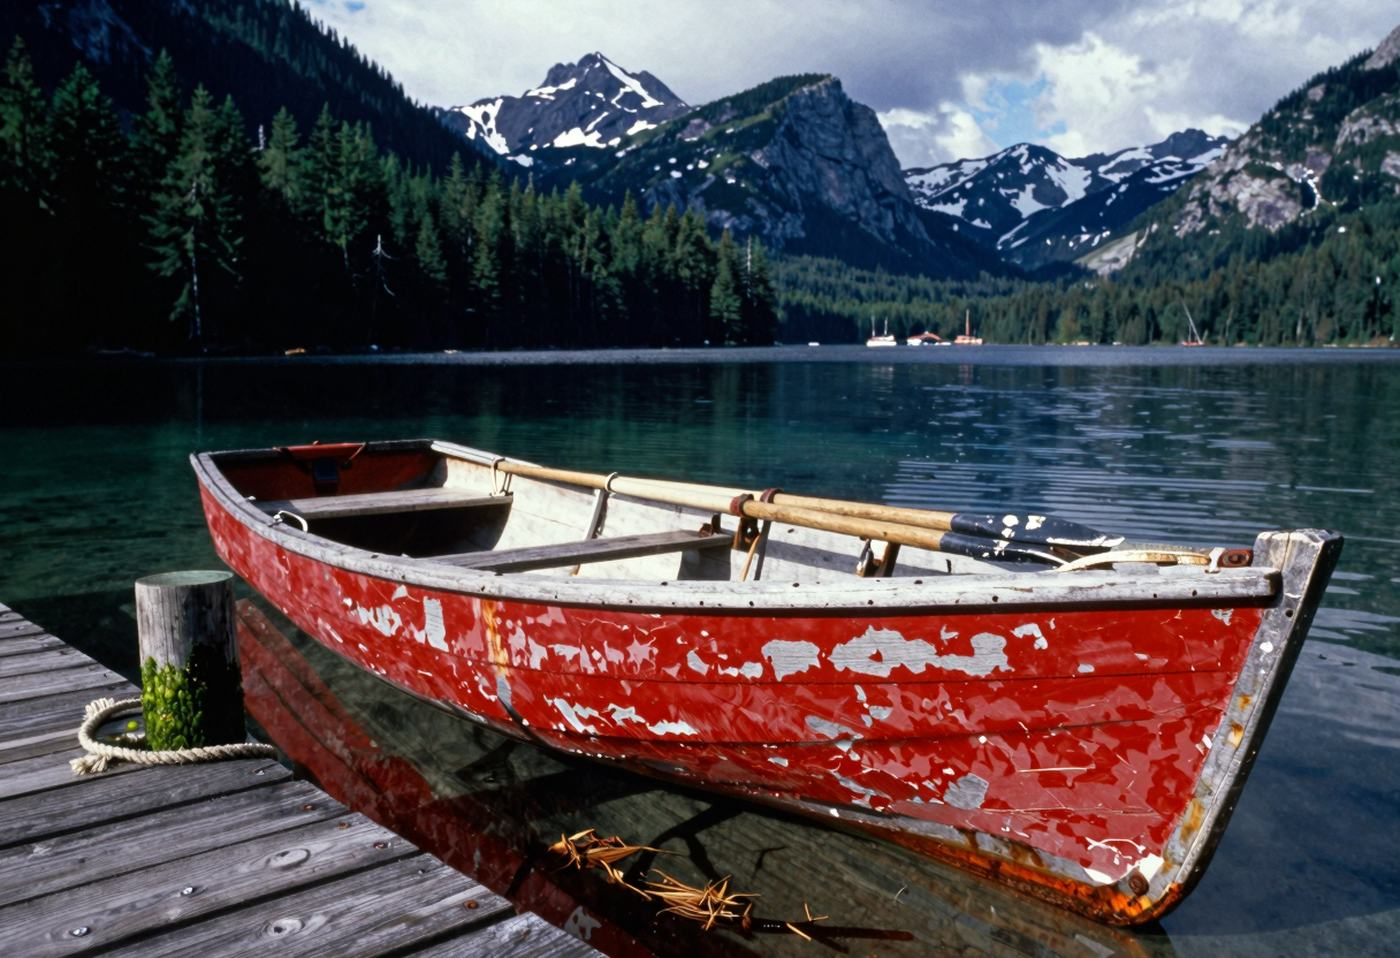
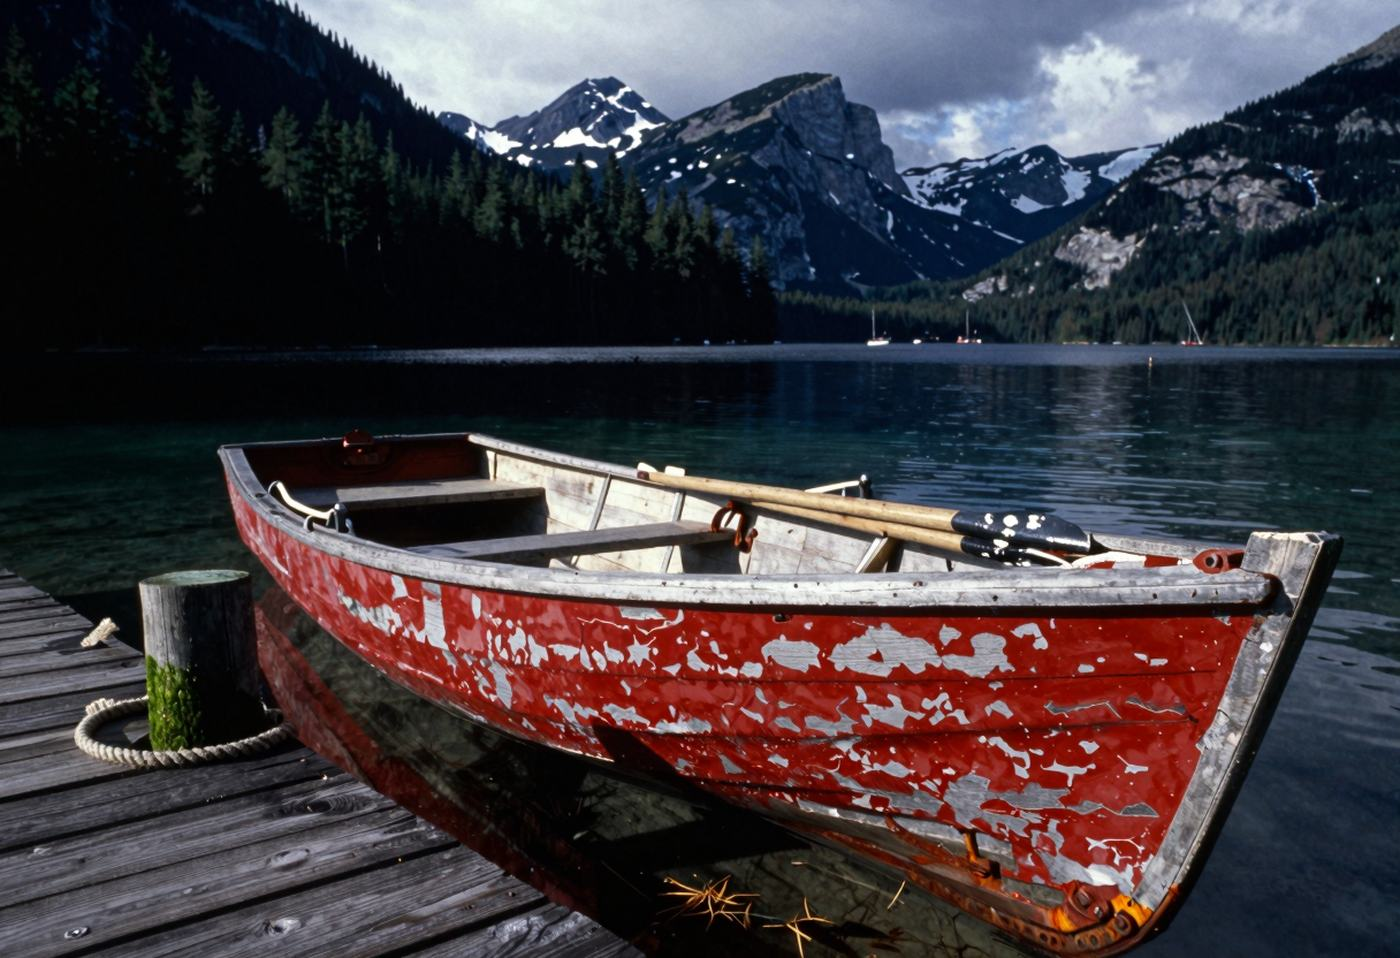
Velvia: darker and low-key, matched by eye to real Velvia portraits

diff --git a/content/blog/moss-image-film-camera-prompts.md b/content/blog/moss-image-film-camera-prompts.md
@@ -234,18 +234,18 @@ Deeper reds and darker shadows. Subtle.
 ### Fuji Velvia 50
 
 ```
-Color slide film photo, slightly underexposed, the most vivid saturated color, intensely vivid deep cool greens, rich blues and deep luminous reds, neutral gray balance, high contrast, shadows dropping quickly to pure black, razor-sharp detail, almost no grain.
+Color slide film photo, underexposed and low-key, dark moody exposure, skin rendered dark and rich instead of bright, faces falling into shadow, deep cool blues and greens, deep luminous reds, neutral gray balance, high contrast, large areas of pure black shadow, razor-sharp detail, almost no grain.
 ```
 
 Negative prompt, after MOSS's usual one:
 
 ```
-muted colors, warm golden cast, yellow cast, neon green, lifted faded blacks, matte, low contrast, overexposed, soft focus, visible grain, HDR
+bright skin, glowing skin, overexposed, high key, warm golden cast, yellow cast, neon green, lifted faded blacks, matte, low contrast, soft focus, visible grain, HDR
 ```
 
 ![Fuji Velvia 50](/images/moss-film/r1/film-fuji_velvia_50-v2.jpg)
 
-Deep reds, a dark cool-green shutter, a neutral wall and deep shadows. My first wording gave a neon green shutter and a yellow-green wall, and someone who has shot Velvia rightly called that out. Asking for it "slightly underexposed" made the biggest difference, which is also how slide shooters get the most from this film.
+Dark and moody: deep reds, a dark green shutter, a neutral wall and true blacks. My first wording gave a neon green shutter and a yellow-green wall, and someone who has shot Velvia rightly called that out. "Underexposed and low-key" made the biggest difference. Take those words out if you want it brighter.
 
 ### Cross-processed slide
 

diff --git a/content/blog/z-image-turbo-film-camera-recipes.md b/content/blog/z-image-turbo-film-camera-recipes.md
@@ -203,7 +203,7 @@ Deep blue sky and dense reds.
 ### Fuji Velvia 50
 
 ```
-Color slide film photo, slightly underexposed, the most vivid saturated color, intensely vivid deep cool greens, rich blues and deep luminous reds, neutral gray balance, high contrast, shadows dropping quickly to pure black, razor-sharp detail, almost no grain.
+Color slide film photo, underexposed and low-key, dark moody exposure, skin rendered dark and rich instead of bright, faces falling into shadow, deep cool blues and greens, deep luminous reds, neutral gray balance, high contrast, large areas of pure black shadow, razor-sharp detail, almost no grain.
 ```
 
 :::photos
@@ -211,7 +211,7 @@ base: /images/film-sim/r3/film-fuji_velvia_50-v2
 alt: Fuji Velvia 50
 :::
 
-Deep reds, cool greens, a neutral balance and blacks that drop away fast. My first wording pushed everything warm, and someone who has shot Velvia corrected me. Asking for it "slightly underexposed" made the biggest difference, which is also how slide shooters get the most from this film.
+Dark and contrasty: deep reds, cool greens, a neutral balance and big areas of pure black. My first wording pushed everything warm and bright, and someone who has shot Velvia corrected me. "Underexposed and low-key" made the biggest difference. Take those words out if you want it brighter.
 
 ### Cross-processed slide
 
